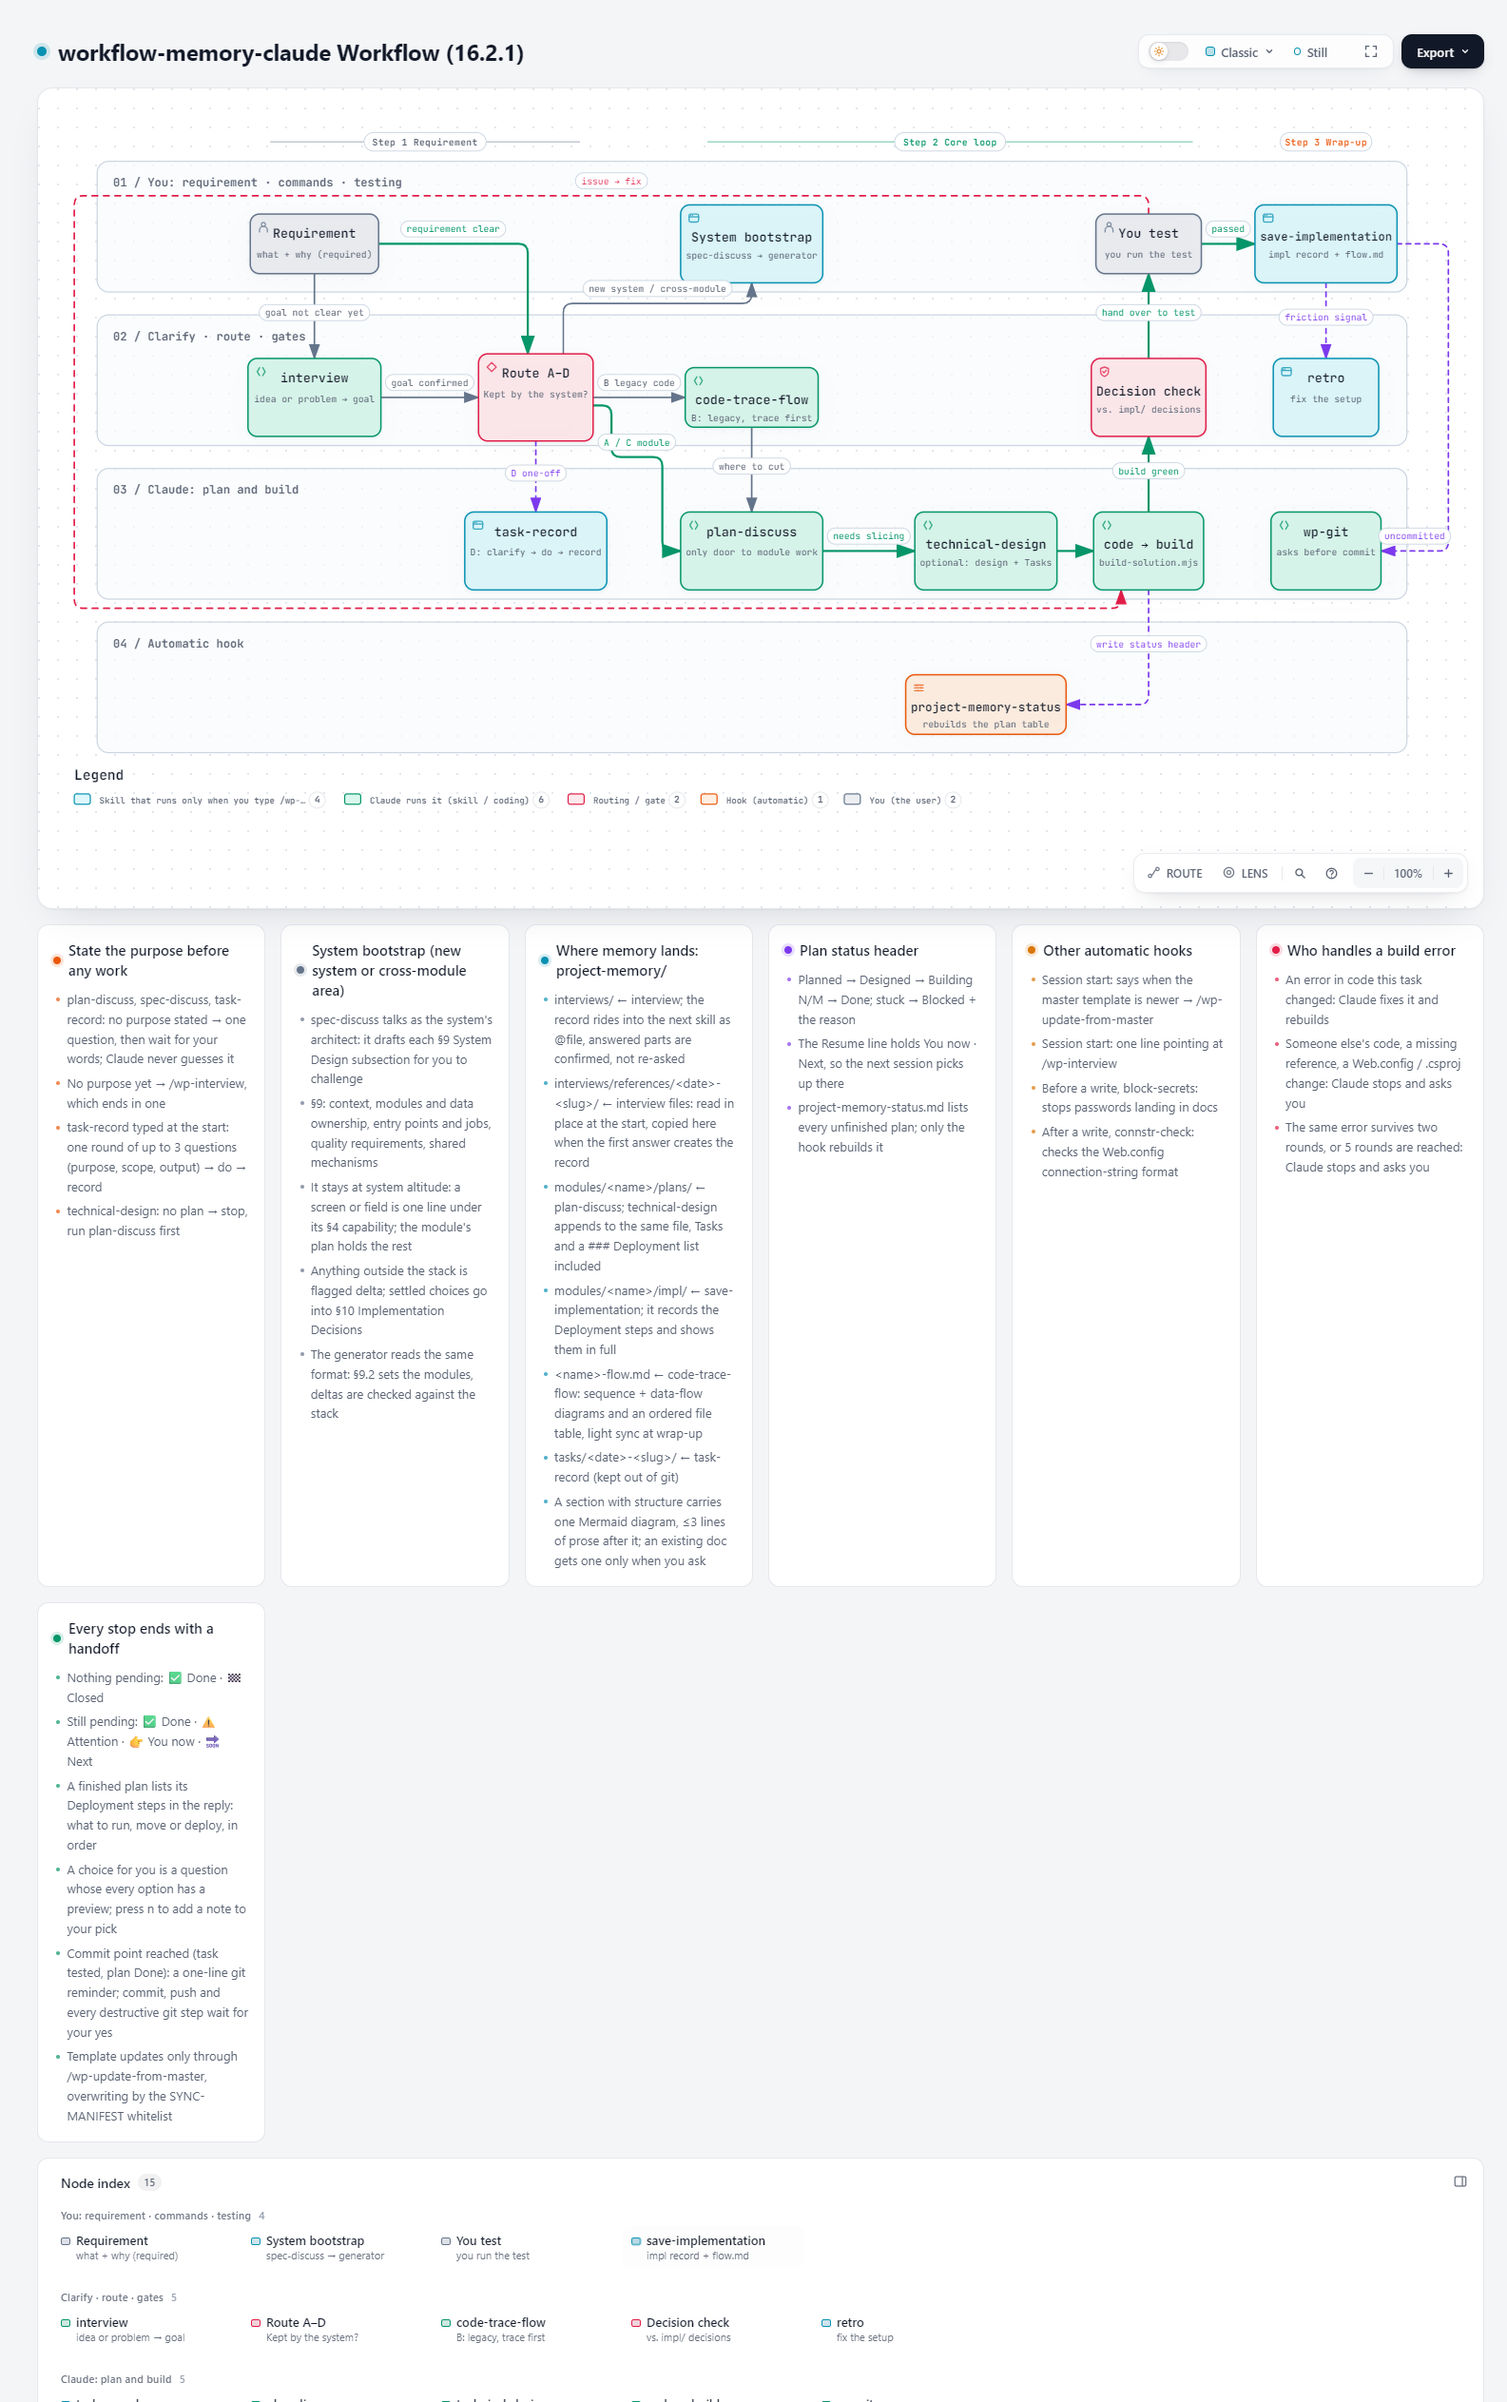
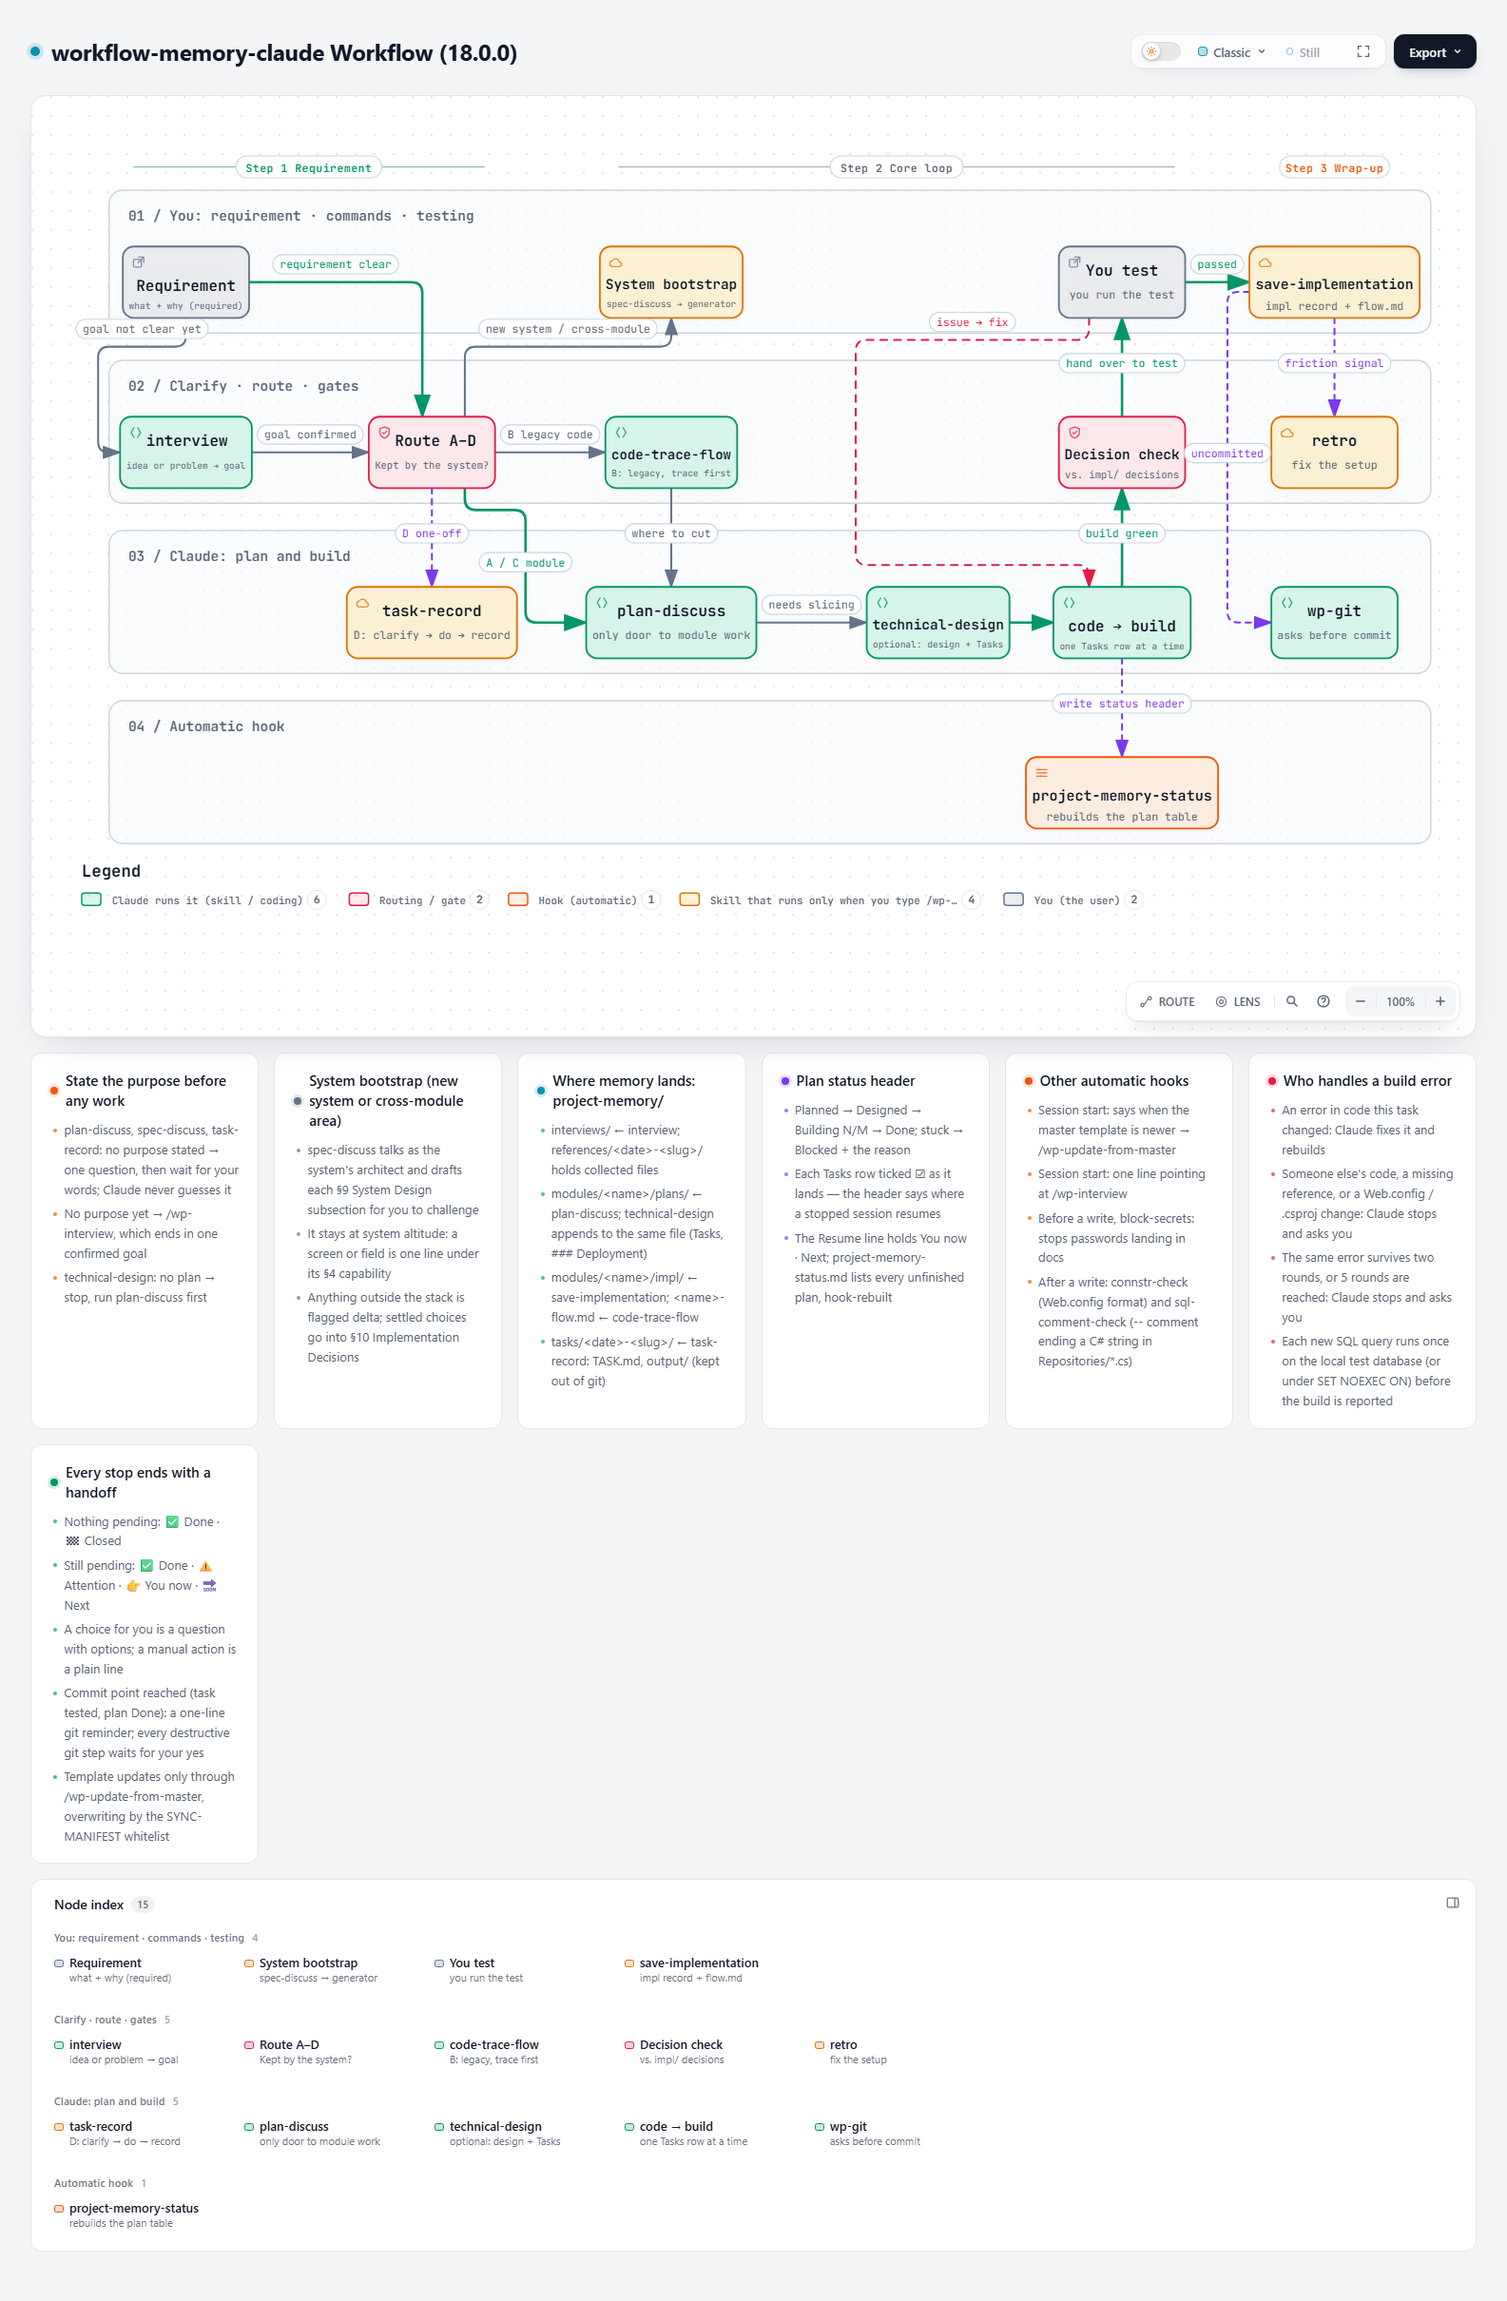
template docs: refresh the workflow diagram PNG to 18.0.0
code -> build node notes one Tasks row at a time (waves removed), hooks card lists sql-comment-check, build-error card adds the run-each-new-SQL-once check; README caption and sentence say 18.0.0.

Claude-Session: https://claude.ai/code/session_01S4f86XLaieDNsLmME3HM6G

diff --git a/README.md b/README.md
@@ -19,10 +19,10 @@ you work; everything else is reusable as-is.
 
 ## Workflow at a glance
 
-![workflow-memory-claude workflow, template 16.2.1](assets/workflow-diagram.png)
+![workflow-memory-claude workflow, template 18.0.0](assets/workflow-diagram.png)
 
 The three steps of `.claude/rules/workspace-workflow.md` as one picture: how a requirement comes in,
-the build loop, the wrap-up. The PNG shows template 16.2.1 and lives in this repo only — it is not
+the build loop, the wrap-up. The PNG shows template 18.0.0 and lives in this repo only — it is not
 part of the sync whitelist, so projects never receive it.
 
 ## Layout
